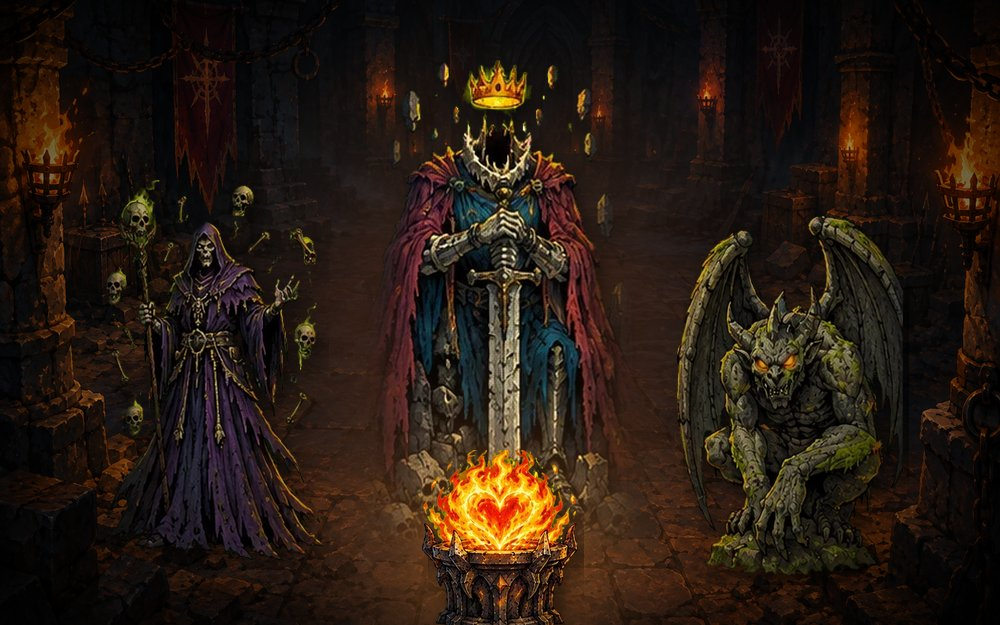
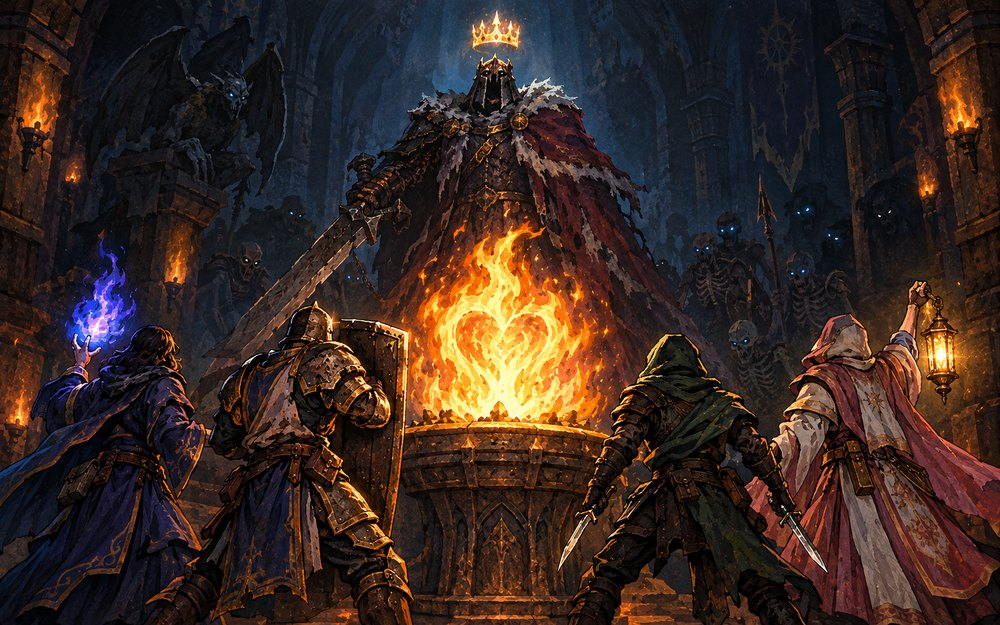
Hearthguard: splash art for the join screen, lobby and homepage thumbnail

diff --git a/Hearthguard/style.css b/Hearthguard/style.css
@@ -57,7 +57,16 @@ button { font: inherit; color: inherit; cursor: pointer; }
 .chip:hover { border-color: var(--gold); }
 
 /* ---------- Join ---------- */
-#join { min-height: 100vh; display: grid; place-items: center; padding: 16px; }
+#join {
+  min-height: 100vh; display: grid; place-items: center; padding: 16px;
+  background: linear-gradient(180deg, #120e0c55, #120e0c99 70%, #120e0cee), url(assets/bg/splash.webp) center 30% / cover, var(--bg);
+}
+#join .join-panel { background: linear-gradient(180deg, #231b17e6, #1c1613f2); backdrop-filter: blur(6px); }
+/* On wide screens, keep the Hearth and the King in view. */
+@media (min-width: 980px) {
+  #join { justify-items: end; padding-right: 6vw; background-position: 35% 30%, 35% 30%; }
+}
+body[data-phase="lobby"] { background: linear-gradient(#120e0cd9, #120e0cf2), url(assets/bg/splash.webp) center 30% / cover fixed, var(--bg); }
 .panel { background: linear-gradient(180deg, var(--panel), var(--bg2)); border: 1px solid var(--line); border-radius: 16px; padding: 22px; box-shadow: 0 10px 40px #0008; }
 .join-panel { width: min(440px, 100%); text-align: center; }
 .crest { font-size: 3.4rem; filter: drop-shadow(0 0 18px #ff7a3d); animation: flicker 2.4s infinite; }
